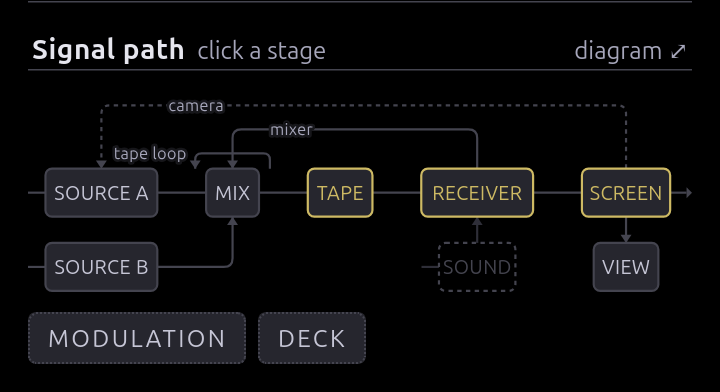
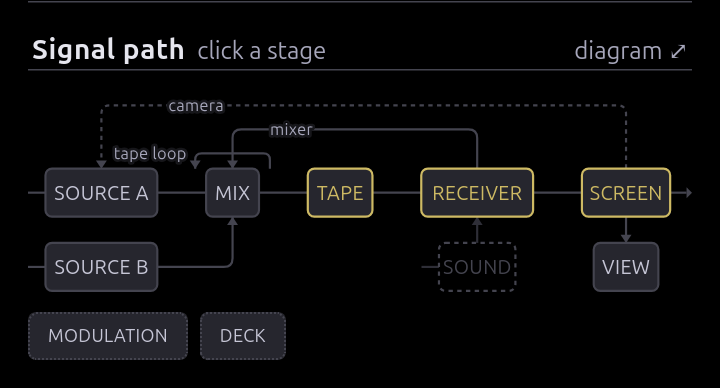
fix(ui): set the free chips at the map's size, not the panel's
MODULATION was the widest, heaviest thing under the map — --fs-sm with
0.1em tracking put it at 107px against SOURCE A's 61 — so the one box
that isn't on the signal path drew the eye first. The map's register is
now a token both read, and the chips match it in size and tracking.

diff --git a/src/ui/SignalPath.module.css b/src/ui/SignalPath.module.css
@@ -55,24 +55,37 @@
   gap: 6px;
   margin: 6px 0 2px;
 }
-/* Sized like the boxes above it and set like the panel, which is the pairing
-   that says "same kind of thing, not on the drawing": a chip's face is the map's
-   own --ctl-face, and its outline is the dotted one the free boxes used to wear
-   inside the svg. 26px tall, against the 24 a box on the map now gets. */
+/* Sized like the boxes above it, which is what says "same kind of thing, not on
+   the drawing": a chip's face is the map's own --ctl-face, and its outline is
+   the dotted one the free boxes used to wear inside the svg.
+
+   Set at the map's own --fs-map rather than the panel's, because the difference
+   was visible: a chip at --fs-sm with 0.1em tracking put MODULATION at 107px
+   against SOURCE A's 61, so the widest, heaviest thing in the figure was the one
+   box that isn't on the signal path. Same size and same tracking as .mapLabel,
+   and 24px tall against the box's 22. */
 .freeChip {
   composes: bare from './ui.module.css';
   display: inline-flex;
   align-items: center;
   gap: 4px;
-  min-height: 26px;
+  min-height: 24px;
   padding: 0 9px;
   border: 1px dotted var(--border);
   border-radius: 4px;
   background: var(--ctl-face);
   color: var(--fg2);
-  font-size: var(--fs-sm);
-  letter-spacing: 0.1em;
+  font-size: var(--fs-map);
+  letter-spacing: 0.02em;
   text-transform: uppercase;
+}
+/* The map is capped at 420px there, so its labels are drawn at 420/304 of a
+   user unit and a chip left at --fs-map would be the thing that looks wrong.
+   Same ratio, applied to the chip. */
+@container panel (min-width: 540px) {
+  .freeChip {
+    font-size: calc(var(--fs-map) * 420 / 304);
+  }
 }
 .freeChip:hover:not(:disabled) {
   border-color: var(--border-hover);

diff --git a/src/theme.css b/src/theme.css
@@ -10,9 +10,10 @@
    asking to be leaned into. Anything dimmer than --fg4 must be decoration only.
 
    One type scale, so "the whole UI is too small" is a six-line edit rather than
-   a sweep over sixty declarations. --fs-xs is the floor: nothing sets a size
-   below it, and the only raw size left in the app is .mapLabel, which is in svg
-   user units rather than pixels. rem, not em, because these nest (a button in a
+   a sweep over sixty declarations. --fs-xs is the floor for text in the panel,
+   and the chain map is what runs below it: --fs-map for its boxes and the chips
+   beside them, with its loop names a notch under that in ChainMap.module.css —
+   the only raw size left. rem, not em, because these nest (a button in a
    row in a section) and em would compound into sizes nobody chose — rem always
    resolves against the root, so it nests without compounding and still honours
    a reader who set their browser's default font size to something other than
@@ -40,6 +41,11 @@
   --fg2: #c6c6d6;
   --fg3: #a6a6ba;
   --fg4: #85859a;
+  /* The chain map's register, shared by the svg labels and the chips beside
+     them so the two cannot drift apart. px rather than rem because the svg is
+     drawn in user units: the panel's content box is 304px and the map's viewBox
+     is 304 wide, so a unit is a pixel and a label is this size exactly. */
+  --fs-map: 9px;
   --fs-xs: 0.6875rem; /* 11px */
   --fs-sm: 0.75rem; /* 12px */
   --fs: 0.8125rem; /* 13px */

diff --git a/src/ui/ChainMap.module.css b/src/ui/ChainMap.module.css
@@ -229,10 +229,11 @@
 }
 /* svg user units, which are px at the sidebar's width. 9 rather than 8: the box
    under it is 22 units now instead of 16, and 8px caps in a 22-unit box is a
-   label rattling around in a target. */
+   label rattling around in a target. The free chips under the map read the same
+   token, so a box and a chip are set at one size. */
 .mapLabel {
   fill: currentColor;
-  font-size: 9px;
+  font-size: var(--fs-map);
   letter-spacing: 0.02em;
   text-transform: uppercase;
   /* the box is the target, and a drag that starts on a label should not select
